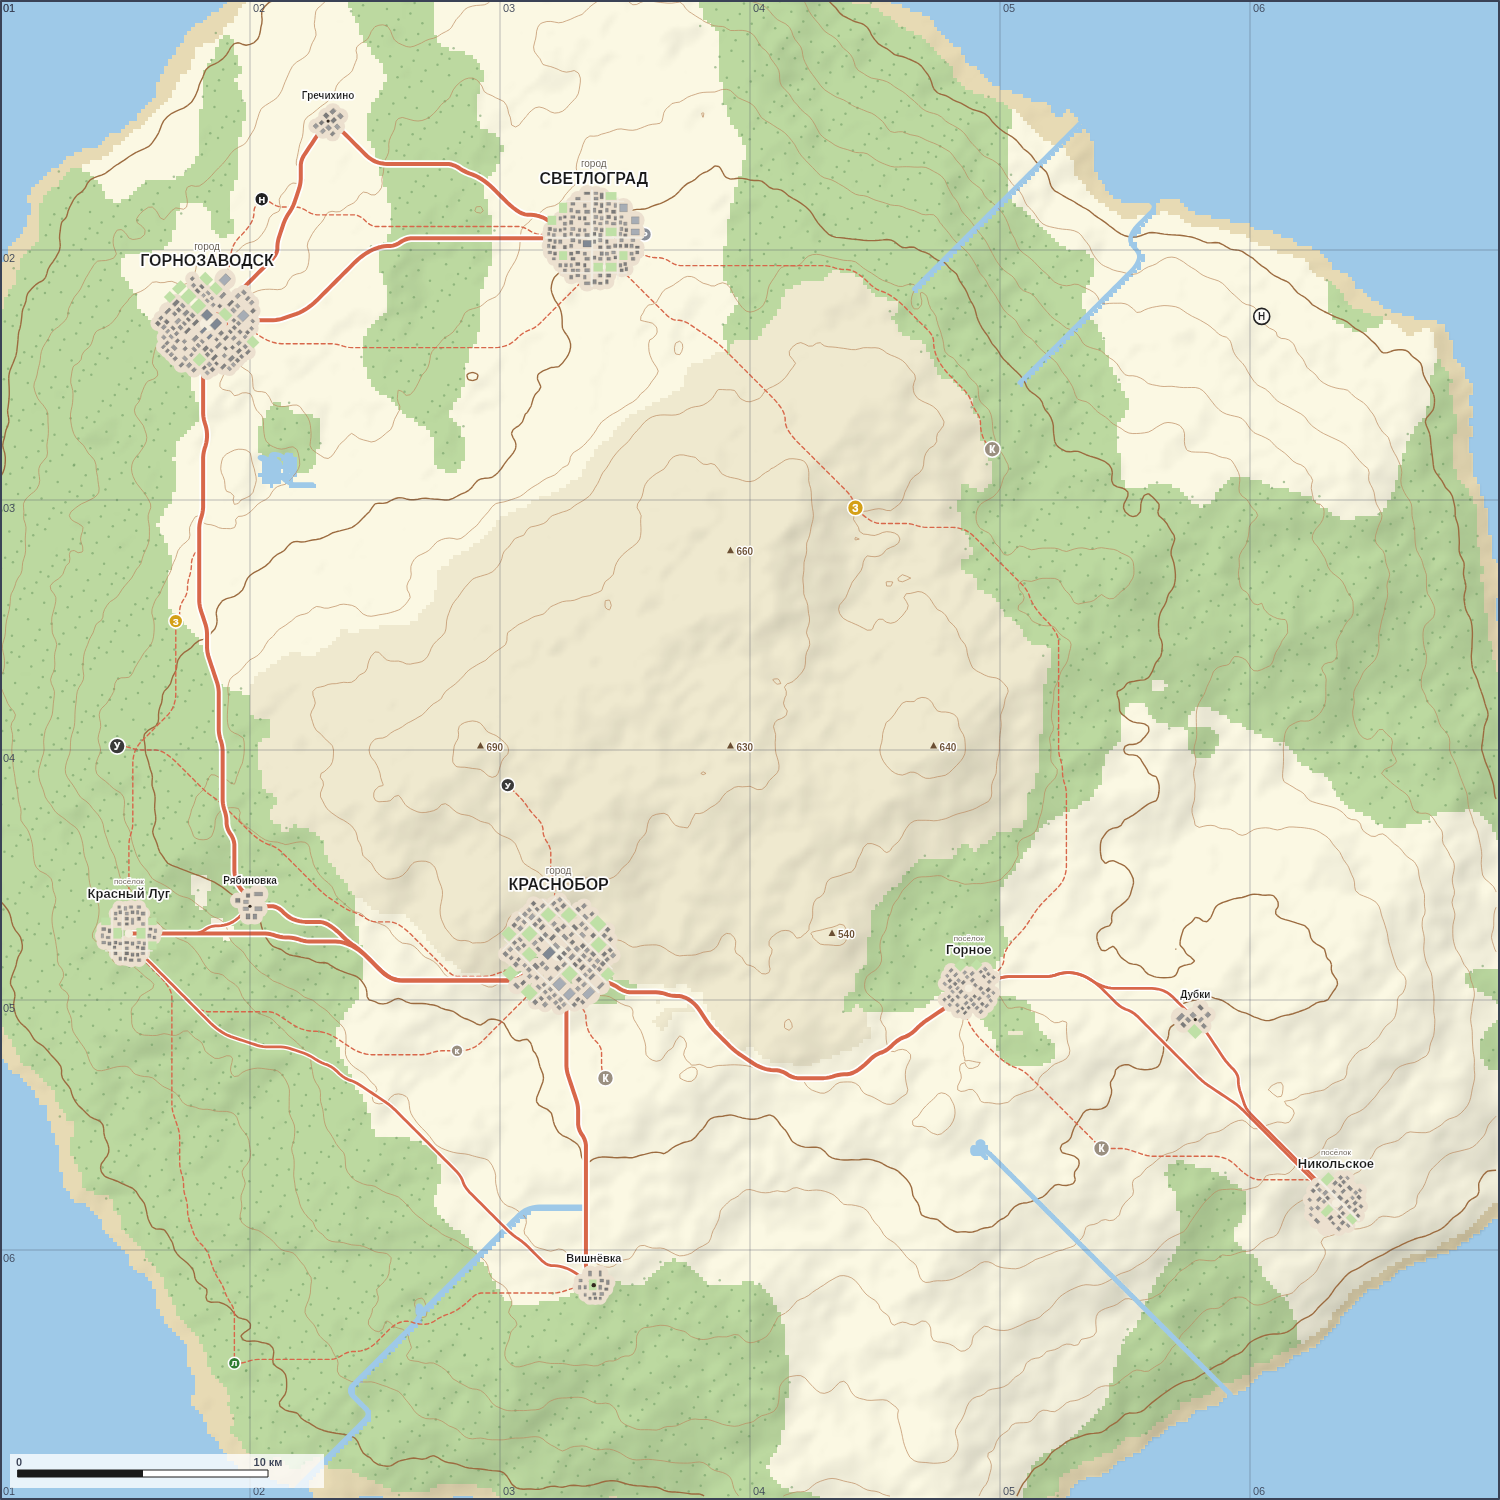
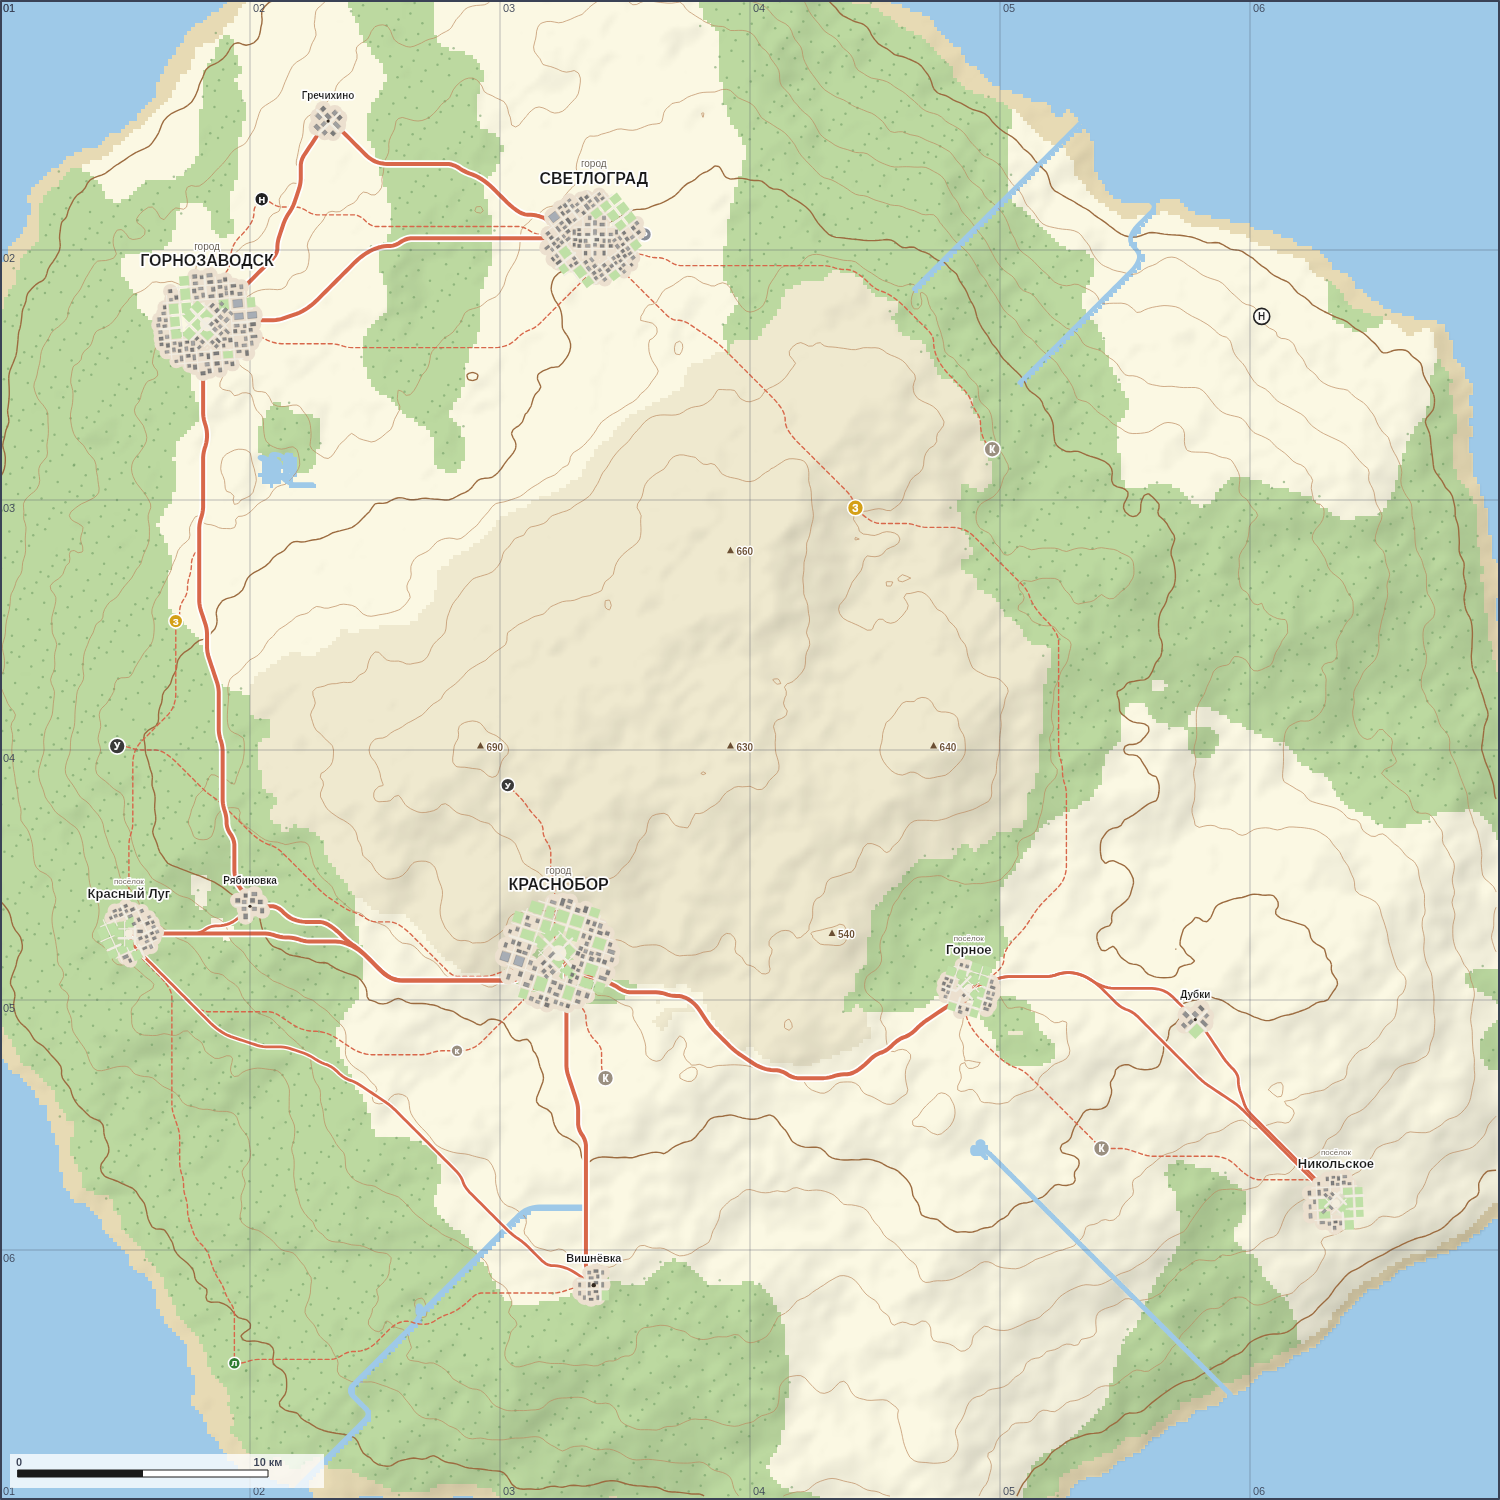
Органичные кварталы: районы с разным углом сетки и разные парки
Города ближе к настоящим картам:
- город делится на РАЙОНЫ с разным углом сетки — компактное ядро и повёрнутые
  относительно него окраины; больше не одна ровная решётка;
- ПАРКИ разной величины: маленькие скверы по кварталам + крупные «зелёные зоны»
  в несколько кварталов;
- улицы каждого района обрезаются по своему кольцу радиусов; периметральная
  застройка и непересечение домов сохранены (проверено: 0 наложений).

Проверено в браузере (Chromium): без ошибок, анимация и перемотка работают.

Claude-Session: https://claude.ai/code/session_013g6C5sYmZd55dF6BbemY1p

diff --git a/js/town.js b/js/town.js
@@ -5,11 +5,10 @@
  * территорию на КВАРТАЛЫ, а уже внутри кварталов застройка идёт по периметру
  * (дома фасадами на улицу, внутри — двор). Часть кварталов — ПАРКИ/скверы.
  *
- *   - улицы образуют сетку (с лёгкой неровностью и главными «проспектами»);
- *   - квартал застраивается по периметру (жильё) либо одним крупным зданием
- *     (гражданское/промышленное); часть кварталов — зелёные парки;
- *   - зонирование: центр (гражданские здания, площадь), жильё, промзона на
- *     окраине; чем дальше от центра — тем больше парков и реже застройка.
+ * Чтобы город не выглядел одной ровной решёткой, он делится на РАЙОНЫ с разным
+ * углом сетки (исторический центр и более новые окраины повёрнуты по-разному),
+ * а парки бывают как маленькими сквериками, так и крупными (в несколько
+ * кварталов).
  *
  * Координаты — в «клетках» сетки карты. Всё детерминировано: один и тот же
  * пункт (координаты + сид) застраивается одинаково.
@@ -37,7 +36,7 @@ class TownBuilder {
     return [2, 3, 5, 8, 11][tier] || 4;
   }
 
-  /* Локальные координаты (u вдоль оси города, v поперёк) → мировые клетки. */
+  /* Локальные координаты (u вдоль оси района, v поперёк) → мировые клетки. */
   _toWorld(f, u, v) {
     return [f.cx + u * f.ca - v * f.sa, f.cy + u * f.sa + v * f.ca];
   }
@@ -66,73 +65,149 @@ class TownBuilder {
     const R = town.radius || 5 + (town.size || 0.6) * 9;
     town.radius = R;
     town.squareR = tier >= 2 ? R * 0.14 : 0; // центральная площадь у посёлков+
+    town.angle = town.incoming && town.incoming.length ? town.incoming[0] : rng() * Math.PI;
 
-    const ang = town.incoming && town.incoming.length ? town.incoming[0] : rng() * Math.PI;
-    town.angle = ang;
-    const f = { cx: town.x, cy: town.y, ca: Math.cos(ang), sa: Math.sin(ang), R };
+    const indDir = rng() * Math.PI * 2; // сектор промзоны
+    const cell = (2 * R) / this._blocksPerAxis(tier);
 
-    const N = this._blocksPerAxis(tier);
-    const cell = (2 * R) / N; // размер квартала в клетках
+    // Крупные парки (в несколько кварталов): пара «зелёных зон» по городу.
+    const parkZones = [];
+    if (tier >= 2) {
+      const nz = tier >= 3 ? 1 + Math.floor(rng() * 2) : 1;
+      for (let k = 0; k < nz; k++) {
+        const a = rng() * Math.PI * 2;
+        const rr = R * (0.3 + rng() * 0.45);
+        parkZones.push({ x: town.x + Math.cos(a) * rr, y: town.y + Math.sin(a) * rr, r: cell * (1.0 + rng() * 1.1) });
+      }
+    }
+
+    // Районы с разным углом сетки: ядро + окраины (у крупных пунктов).
+    const districts = this._districts(town, tier, R, rng);
+
+    const streets = [];
+    const buildings = [];
+    const parks = [];
+    const placed = [];
+    for (const d of districts) {
+      this._buildDistrict(town, d, def, rng, indDir, grid, parkZones, streets, buildings, parks, placed);
+    }
+
+    // Относительное удаление от центра (для «прорастания» при анимации роста).
+    for (const b of buildings) b.dc = Math.hypot(b.x - town.x, b.y - town.y) / R;
+    town.streets = streets;
+    town.buildings = buildings;
+    town.parks = parks;
+  }
+
+  /*
+   * Районы города. У посёлков+ — два района с разным углом сетки: компактное
+   * ядро и повёрнутые относительно него окраины (как центр и новые кварталы).
+   */
+  _districts(town, tier, R, rng) {
+    const a = town.angle;
+    if (tier < 2) return [{ angle: a, rMin: 0, rMax: R * 1.02 }];
+    const coreEdge = R * (0.4 + rng() * 0.1);
+    const turn = (0.35 + rng() * 0.5) * (rng() < 0.5 ? 1 : -1); // поворот окраин, ~20–50°
+    return [
+      { angle: a + turn, rMin: coreEdge, rMax: R * 1.02 }, // окраины — рисуем первыми
+      { angle: a, rMin: 0, rMax: coreEdge },               // ядро — поверх
+    ];
+  }
+
+  /* Застраивает один район (кольцо радиусов [rMin,rMax)) своей сеткой. */
+  _buildDistrict(town, d, def, rng, indDir, grid, parkZones, streets, buildings, parks, placed) {
+    const R = town.radius;
+    const f = { cx: town.x, cy: town.y, ca: Math.cos(d.angle), sa: Math.sin(d.angle), R };
+    const N = this._blocksPerAxis(town.tier | 0);
+    const cell = (2 * R) / N;
     f.cell = cell;
     const U = this._gridPositions(N, R, rng);
     const V = this._gridPositions(N, R, rng);
 
-    // --- Улицы: линии сетки, обрезанные по кругу города. Центральные — главные. ---
-    const streets = [];
+    // Улицы района: линии сетки, обрезанные по кольцу [rMin,rMax]. Центральные —
+    // главные «проспекты».
     const midU = Math.round(N / 2);
     const midV = Math.round(N / 2);
     for (let i = 0; i <= N; i++) {
       const u = U[i];
       if (Math.abs(u) >= R) continue;
-      const vm = Math.sqrt(Math.max(0, R * R - u * u));
-      streets.push({ pts: [this._toWorld(f, u, -vm), this._toWorld(f, u, vm)], major: i === midU });
+      const vm = Math.sqrt(R * R - u * u);
+      const p0 = this._toWorld(f, u, -vm);
+      const p1 = this._toWorld(f, u, vm);
+      for (const seg of this._clipToBand(p0, p1, town.x, town.y, d.rMin, d.rMax)) {
+        streets.push({ pts: seg, major: i === midU });
+      }
     }
     for (let j = 0; j <= N; j++) {
       const v = V[j];
       if (Math.abs(v) >= R) continue;
-      const um = Math.sqrt(Math.max(0, R * R - v * v));
-      streets.push({ pts: [this._toWorld(f, -um, v), this._toWorld(f, um, v)], major: j === midV });
-    }
-    town.streets = streets;
-
-    // --- Кварталы ---
-    const indDir = rng() * Math.PI * 2; // сектор промзоны
-    const buildings = [];
-    const parks = [];
-    const placed = [];
-    for (let i = 0; i < N; i++) {
-      for (let j = 0; j < N; j++) {
-        this._buildBlock(f, U[i], U[i + 1], V[j], V[j + 1], town, def, rng, indDir, grid, buildings, parks, placed);
+      const um = Math.sqrt(R * R - v * v);
+      const p0 = this._toWorld(f, -um, v);
+      const p1 = this._toWorld(f, um, v);
+      for (const seg of this._clipToBand(p0, p1, town.x, town.y, d.rMin, d.rMax)) {
+        streets.push({ pts: seg, major: j === midV });
       }
     }
 
-    // Относительное удаление от центра (для «прорастания» при анимации роста).
-    for (const b of buildings) b.dc = Math.hypot(b.x - town.x, b.y - town.y) / R;
-    town.buildings = buildings;
-    town.parks = parks;
+    // Кварталы района.
+    for (let i = 0; i < N; i++) {
+      for (let j = 0; j < N; j++) {
+        this._buildBlock(f, U[i], U[i + 1], V[j], V[j + 1], town, d, def, rng, indDir, grid, parkZones, buildings, parks, placed);
+      }
+    }
+  }
+
+  /* Делит отрезок на под-полилинии, попадающие в кольцо радиусов [rMin,rMax]. */
+  _clipToBand(p0, p1, cx, cy, rMin, rMax) {
+    const segs = [];
+    let cur = null;
+    const M = 28;
+    for (let k = 0; k <= M; k++) {
+      const t = k / M;
+      const x = p0[0] + (p1[0] - p0[0]) * t;
+      const y = p0[1] + (p1[1] - p0[1]) * t;
+      const d = Math.hypot(x - cx, y - cy);
+      if (d >= rMin && d <= rMax) {
+        if (!cur) { cur = []; segs.push(cur); }
+        cur.push([x, y]);
+      } else {
+        cur = null;
+      }
+    }
+    return segs.filter((s) => s.length >= 2);
   }
 
   /* Застраивает один квартал [u0,u1]×[v0,v1] (или делает его парком). */
-  _buildBlock(f, u0, u1, v0, v1, town, def, rng, indDir, grid, buildings, parks, placed) {
+  _buildBlock(f, u0, u1, v0, v1, town, d, def, rng, indDir, grid, parkZones, buildings, parks, placed) {
     const cell = f.cell;
-    const mu = (u0 + u1) / 2;
-    const mv = (v0 + v1) / 2;
-    const c = this._toWorld(f, mu, mv);
+    const c = this._toWorld(f, (u0 + u1) / 2, (v0 + v1) / 2);
     const bx = c[0];
     const by = c[1];
     const dist = Math.hypot(bx - f.cx, by - f.cy);
+    if (dist < d.rMin || dist >= d.rMax) return;       // не наш район
     const dR = dist / f.R;
-    if (dR > 1.02) return;                 // вне круга города
-    if (this._isBlocked(grid, bx, by)) return; // вода/круча
-    if (town.squareR && dist < town.squareR) return; // центральная площадь — открыта
+    if (dR > 1.02) return;
+    if (this._isBlocked(grid, bx, by)) return;
+    if (town.squareR && dist < town.squareR) return;   // центральная площадь — открыта
 
+    const corners = [
+      this._toWorld(f, u0, v0),
+      this._toWorld(f, u1, v0),
+      this._toWorld(f, u1, v1),
+      this._toWorld(f, u0, v1),
+    ];
+
+    // Крупный парк (зелёная зона) или случайный сквер.
+    let bigPark = false;
+    for (const z of parkZones) {
+      if ((bx - z.x) ** 2 + (by - z.y) ** 2 < z.r * z.r) { bigPark = true; break; }
+    }
     const angToC = Math.atan2(by - f.cy, bx - f.cx);
     const industrial =
       def.industrial > 0 && dR > 0.55 &&
       Math.abs(this._angDiff(angToC, indDir)) < 0.7 && rng() < def.industrial * 1.6;
 
-    // Парки: чем дальше от центра, тем чаще зелёные кварталы.
-    if (!industrial && rng() < 0.1 + dR * 0.1) {
+    if (bigPark || (!industrial && rng() < 0.08 + dR * 0.1)) {
       const inset = cell * 0.12;
       parks.push({
         poly: [
@@ -147,22 +222,14 @@ class TownBuilder {
     }
 
     const civic = !industrial && dR < 0.32 && rng() < def.civic;
-    const corners = [
-      this._toWorld(f, u0, v0),
-      this._toWorld(f, u1, v0),
-      this._toWorld(f, u1, v1),
-      this._toWorld(f, u0, v1),
-    ];
-
     if (industrial || (civic && rng() < 0.6)) {
       // Крупное здание (завод / общественный комплекс) почти во весь квартал.
       const w = cell * (0.6 + rng() * 0.18);
       const h = cell * (0.48 + rng() * 0.2);
-      if (this._isBlocked(grid, bx, by)) return;
       const br = 0.5 * Math.hypot(w, h);
       if (this._tooClose(placed, bx, by, br)) return;
       placed.push([bx, by, br]);
-      buildings.push({ x: bx, y: by, w, h, angle: f.ca === 0 ? 0 : Math.atan2(f.sa, f.ca), kind: industrial ? "industrial" : "civic", tone: rng() });
+      buildings.push({ x: bx, y: by, w, h, angle: Math.atan2(f.sa, f.ca), kind: industrial ? "industrial" : "civic", tone: rng() });
     } else {
       this._placePerimeter(corners, bx, by, civic ? "civic" : "house", cell, rng, grid, buildings, placed);
     }
@@ -176,7 +243,7 @@ class TownBuilder {
     const depth = cell * 0.24;       // глубина дома (внутрь квартала)
     const setback = cell * 0.1;      // отступ от линии улицы
     const inset = setback + depth / 2;
-    const margin = cell * 0.16;      // отступ от углов (чтобы дома не налезали)
+    const margin = cell * 0.16;      // отступ от углов
     const wMean = kind === "civic" ? cell * 0.5 : cell * 0.34;
     const edges = [[0, 1], [1, 2], [2, 3], [3, 0]];
 
@@ -188,7 +255,6 @@ class TownBuilder {
       const len = Math.hypot(ex, ey) || 1;
       const dx = ex / len;
       const dy = ey / len;
-      // нормаль внутрь квартала (к центру блока)
       let nx = -dy;
       let ny = dx;
       const mx = (e0[0] + e1[0]) / 2;
@@ -204,8 +270,8 @@ class TownBuilder {
         const t = margin + (k + 0.5) * slot;
         const px = e0[0] + dx * t + nx * inset;
         const py = e0[1] + dy * t + ny * inset;
-        const w = slot * (0.7 + rng() * 0.22); // вдоль улицы
-        const h = depth * (0.8 + rng() * 0.4); // вглубь двора
+        const w = slot * (0.7 + rng() * 0.22);
+        const h = depth * (0.8 + rng() * 0.4);
         if (this._isBlocked(grid, px, py)) continue;
         const br = 0.5 * Math.hypot(w, h);
         if (this._tooClose(placed, px, py, br)) continue;

diff --git a/README.md b/README.md
@@ -28,7 +28,10 @@
   уровнем моря) — ещё один классический элемент топокарты.
 - **Города — КВАРТАЛАМИ, как на настоящих картах.** Сетка улиц делит пункт на
   кварталы; внутри квартала застройка идёт **по периметру** (дома фасадами на
-  улицу, внутри — двор), а часть кварталов — **парки/скверы**. Главные улицы
+  улицу, внутри — двор), а часть кварталов — **парки/скверы** (от маленьких
+  скверов до крупных парков в несколько кварталов). Город делится на **районы с
+  разным углом сетки** (компактное ядро и повёрнутые относительно него
+  окраины) — поэтому он не выглядит одной ровной решёткой. Главные улицы
   («проспекты») шире обычных. Есть зонирование: центр (гражданские здания и
   **центральная площадь**), жилые кварталы, промзона с крупными корпусами на
   окраине; чем дальше от центра — тем больше парков. Размер и число кварталов